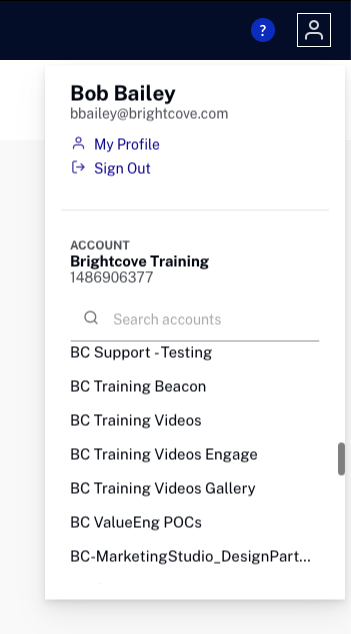
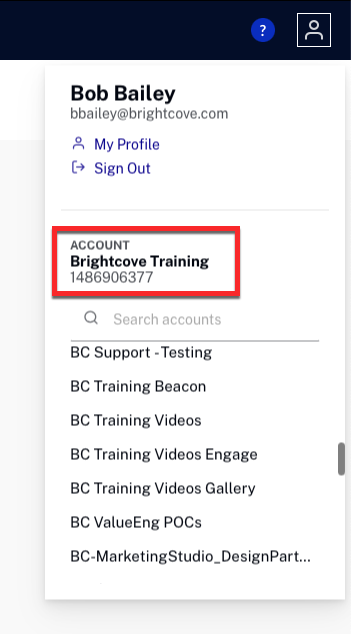
updates

Changed region(s): [[0.1425, 0.3297, 0.6838, 0.4795]]

diff --git a/_site/get-started/getting-started-video-cloud-studio-new-nav.html b/_site/get-started/getting-started-video-cloud-studio-new-nav.html
@@ -1279,16 +1279,16 @@ function doGTranslate(lang_pair) {if(lang_pair.value)lang_pair=lang_pair.value;i
 <article class="bcls-article">
   <h1>Getting Started with Video Cloud Studio - Updated Navigation</h1>
   <summary>This topic provides an overview of the upcoming Video Cloud Studio interface and modules. Video Cloud Studio allows you to manage your video publishing workflow across desktop, tablet and mobile devices.</summary>
-  <section class="bcls-section">
-      <script src="https://solutions.brightcove.com/jcao/AppMeasurement.js"></script><script src="https://solutions.brightcove.com/jcao/VisitorAPI.js"></script>
+  <section class="bcls-section"> 
+    <script src="https://solutions.brightcove.com/jcao/AppMeasurement.js"></script><script src="https://solutions.brightcove.com/jcao/VisitorAPI.js"></script>
     <div class="training-video-player-ipx" data-experience="5a73630f7afd7a00101bc1b5" data-video-ids="1724220548770009898">&nbsp;</div>
     <script src="https://players.brightcove.net/20318290001/experience_5a73630f7afd7a00101bc1b5/live.js"></script>
     <p>To access Video Cloud Studio, navigate to: <a href="https://studio.brightcove.com">https://studio.brightcove.com</a>. Sign in with your email address and password. The home page provides the ability to:</p>
     <ul>
       <li><a href="#notification">View system notifications</a></li>
-      <li><a href="#settings">Manage Video Cloud settings</a></li>
       <li><a href="#account">Select an account and view the user profile</a></li>
       <li><a href="#modules">Access Video Cloud modules</a></li>
+      <li><a href="#settings">Manage Video Cloud settings</a></li>
       <li><a href="#dashboard">View the Video Cloud dashboard</a></li>
     </ul>
     <figure class="bcls-figure"><img class="bcls-image--no-border" alt="" src="/assets/images/get-started/node14494-studio-home2.png" /></figure>
@@ -1298,6 +1298,41 @@ function doGTranslate(lang_pair) {if(lang_pair.value)lang_pair=lang_pair.value;i
     <h2 id="notification">Viewing system notifications</h2>
     <p>The Video Cloud Studio header will display a bell icon <img alt="" src="/assets/images/get-started/node14494-notification-icon.png" /> when there are system notifications available. Clicking the icon will display the list of system notifications.</p>
     <p>The Video Cloud Studio header will display a warning icon <img alt="" src="/assets/images/get-started/node14494-system-issue-icon.png" /> when there are system issues. Clicking the icon will open the Brightcove System Status page.</p>
+  </section>
+  <section class="bcls-section">
+    <h2 id="account">Selecting an account</h2>
+    <p>If you have access to multiple Video Cloud accounts, the Video Cloud account selector can be used to select the Video Cloud account you want to access. To switch accounts, click on the <strong>Profile</strong> icon in the top right corner of Video Cloud Studio. The current account appears above the account list.</p>
+    <figure class="bcls-figure"><img class="bcls-image--no-border" alt="" src="/assets/images/get-started/node14494-select-account2.png" /></figure>
+    <p>Click the <strong>My Profile</strong> link to update your user information and password. For more information, see <a href="/admin/managing-profile-information.html">Managing Profile Information</a>.</p>
+  </section>
+  <section class="bcls-section">
+    <h2 id="modules">Accessing modules</h2>
+    <p>The Video Cloud Studio primary navigation provides access to the Studio modules.</p>
+    <figure class="bcls-figure"><img class="bcls-image--no-border" alt="" src="/assets/images/get-started/node14494-nav-header2.png" /></figure>
+    <p>Note that the modules that you have access to are based upon your Video Cloud subscription and user profile.</p>
+    <ul>
+      <li><a href="/media/uploading-videos-using-upload-module.html">Upload</a> - Upload videos to your Video Cloud account</li>
+      <li><a href="/media/getting-started-media-module.html">Media</a> - Set video properties, organize videos using folders and publish videos</li>
+      <li><a href="https://gallery.support.brightcove.com/get-started/getting-started-brightcove-gallery.html">Gallery</a> - Create video portals for your video content</li>
+      <li><a href="https://live.support.brightcove.com/live-module/creating-and-managing-live-events-using-live-module.html">Live</a> - Create and stream live events</li>
+      <li><a href="/cloud-playout/cloud-playout-overview.html">Cloud Playout</a> - Create live linear channels for videos</li>
+      <li><a href="/social/getting-started-brightcove-social.html">Social</a> - Distribute videos to social media accounts</li>
+      <li><a href="/analytics/getting-started-analytics-module.html">Analytics</a> - View analytics on video and player performance</li>
+      <li><a href="/players/getting-started-players-module.html">Players</a> - Create and style players and generate publishing code for players</li>
+      <li><a href="/campaign/index.html">Campaign</a> - Connects video analytics from Video Cloud to marketing automation platforms</li>
+    </ul>
+    The <strong>Marketplace</strong> icon will open the Brightcove Marketplace in a new browser tab. The Brightcove Marketplace contains integrations and applications that extend the capabilities of the Brightcove platform.</section>
+  <section class="bcls-section">
+    <h2 id="dashboard">Viewing the dashboard</h2>
+    <p>The Video Cloud Studio home page displays the Video Cloud dashboard. The dashboard contains a series of "cards" which provide high level metrics on the videos in your account. The following cards are available:</p>
+    <ul>
+      <li><strong>Video views</strong> - Displays number of video views per day for the time period selected. Clicking the <strong>See Video View Details</strong> link will open the Performance Report where you can view video performance.</li>
+      <li><strong>Account summary</strong> - Displays total number of videos and players in the account and the number of recently created and updated videos. Clicking on a number will open the Media or Players module.</li>
+      <li><strong>Device type</strong> - Displays type of devices used to watch videos for the time period selected. Clicking the <strong>See Video Views by Device Type</strong> link will open the Performance Report where you can view video performance by device type.</li>
+      <li><strong>What's new?</strong> - Displays Video Cloud product updates. For a complete list of updates, see the <a href="/release-notes/video-cloud-studio-release-notes.html">Video Cloud Studio Release Notes</a>.</li>
+      <li><strong>Top trending videos</strong> - Displays videos with the most views for the time period selected. Clicking the card title link will open the Performance Report where you can view video performance.</li>
+      <li><strong>Viewing regions</strong> - Displays viewer locations for the time period selected. Clicking <strong>See Video Views by Country</strong> will open the Performance Report where you can view video views by country.</li>
+    </ul>
   </section>
   <section class="bcls-section">
     <h2 id="settings">Managing settings</h2>
@@ -1320,41 +1355,6 @@ function doGTranslate(lang_pair) {if(lang_pair.value)lang_pair=lang_pair.value;i
       <li><a href="/admin/viewing-billing-information.html">Billing</a> - View billing information for the account</li>
     </ul>
     <aside class="bcls-aside bcls-aside--information">Note: You must be an account administrator to have access to the Admin settings.</aside>
-  </section>
-  <section class="bcls-section">
-    <h2 id="account">Selecting an account</h2>
-    <p>If you have access to multiple Video Cloud accounts, the Video Cloud account selector can be used to select the Video Cloud account you want to access. To switch accounts, click on the <strong>Profile</strong> icon in the top right corner of Video Cloud Studio. The current account is indicated with a dot preceding the account name.</p>
-    <figure class="bcls-figure"><img class="bcls-image--no-border" alt="" src="/assets/images/get-started/node14494-select-account2.png" /></figure>
-    <p>Click the <strong>My Profile</strong> link to update your user information and password. For more information, see <a href="/admin/managing-profile-information.html">Managing Profile Information</a>.</p>
-  </section>
-  <section class="bcls-section">
-    <h2 id="modules">Accessing modules</h2>
-    <p>The Video Cloud Studio primary navigation provides access to the Studio modules.</p>
-    <figure class="bcls-figure"><img class="bcls-image--no-border" alt="" src="/assets/images/get-started/node14494-nav-header2.png" /></figure>
-    <p>Note that the modules that you have access to are based upon your Video Cloud subscription and user profile.</p>
-    <ul>
-      <li><a href="/media/uploading-videos-using-upload-module.html">Upload</a> - Upload videos to your Video Cloud account</li>
-      <li><a href="/media/getting-started-media-module.html">Media</a> - Set video properties, organize videos using folders and publish videos</li>
-      <li><a href="/analytics/getting-started-analytics-module.html">Analytics</a> - View analytics on video and player performance</li>
-      <li><a href="/players/getting-started-players-module.html">Players</a> - Create and style players and generate publishing code for players</li>
-      <li><a href="https://live.support.brightcove.com/live-module/creating-and-managing-live-events-using-live-module.html">Live</a> - Create and stream live events</li>
-      <li><a href="/cloud-playout/cloud-playout-overview.html">Cloud Playout</a> - Create live linear channels for videos</li>
-      <li><a href="https://gallery.support.brightcove.com/get-started/getting-started-brightcove-gallery.html">Gallery</a> - Create video portals for your video content</li>
-      <li><a href="/social/getting-started-brightcove-social.html">Social</a> - Distribute videos to social media accounts</li>
-      <li><a href="/campaign/index.html">Campaign</a> - Connects video analytics from Video Cloud to marketing automation platforms</li>
-    </ul>
-    The <strong>Marketplace</strong> link will open the Brightcove Marketplace in a new browser tab. The Brightcove Marketplace contains integrations and applications that extend the capabilities of the Brightcove platform.</section>
-  <section class="bcls-section">
-    <h2 id="dashboard">Viewing the dashboard</h2>
-    <p>The Video Cloud Studio home page displays the Video Cloud dashboard. The dashboard contains a series of "cards" which provide high level metrics on the videos in your account. The following cards are available:</p>
-    <ul>
-      <li><strong>Video views</strong> - Displays number of video views per day for the time period selected. Clicking the <strong>See Video View Details</strong> link will open the Performance Report where you can view video performance.</li>
-      <li><strong>Account summary</strong> - Displays total number of videos and players in the account and the number of recently created and updated videos. Clicking on a number will open the Media or Players module.</li>
-      <li><strong>Device type</strong> - Displays type of devices used to watch videos for the time period selected. Clicking the <strong>See Video Views by Device Type</strong> link will open the Performance Report where you can view video performance by device type.</li>
-      <li><strong>What's new?</strong> - Displays Video Cloud product updates. For a complete list of updates, see the <a href="/release-notes/video-cloud-studio-release-notes.html">Video Cloud Studio Release Notes</a>.</li>
-      <li><strong>Top trending videos</strong> - Displays videos with the most views for the time period selected. Clicking the card title link will open the Performance Report where you can view video performance.</li>
-      <li><strong>Viewing regions</strong> - Displays viewer locations for the time period selected. Clicking <strong>See Video Views by Country</strong> will open the Performance Report where you can view video views by country.</li>
-    </ul>
   </section>
   <section class="bcls-section">
     <h2 id="localization">Localization</h2>

diff --git a/get-started/getting-started-video-cloud-studio-new-nav.html b/get-started/getting-started-video-cloud-studio-new-nav.html
@@ -7,16 +7,16 @@ layout: staging
 <article class="bcls-article">
   <h1>{{ page.title }}</h1>
   <summary>{{ page.description }}</summary>
-  <section class="bcls-section">
-      <script src="https://solutions.brightcove.com/jcao/AppMeasurement.js"></script><script src="https://solutions.brightcove.com/jcao/VisitorAPI.js"></script>
+  <section class="bcls-section"> 
+    <script src="https://solutions.brightcove.com/jcao/AppMeasurement.js"></script><script src="https://solutions.brightcove.com/jcao/VisitorAPI.js"></script>
     <div class="training-video-player-ipx" data-experience="5a73630f7afd7a00101bc1b5" data-video-ids="1724220548770009898">&nbsp;</div>
     <script src="https://players.brightcove.net/20318290001/experience_5a73630f7afd7a00101bc1b5/live.js"></script>
     <p>To access Video Cloud Studio, navigate to: <a href="https://studio.brightcove.com">https://studio.brightcove.com</a>. Sign in with your email address and password. The home page provides the ability to:</p>
     <ul>
       <li><a href="#notification">View system notifications</a></li>
-      <li><a href="#settings">Manage Video Cloud settings</a></li>
       <li><a href="#account">Select an account and view the user profile</a></li>
       <li><a href="#modules">Access Video Cloud modules</a></li>
+      <li><a href="#settings">Manage Video Cloud settings</a></li>
       <li><a href="#dashboard">View the Video Cloud dashboard</a></li>
     </ul>
     <figure class="bcls-figure"><img class="bcls-image--no-border" alt="" src="/assets/images/get-started/node14494-studio-home2.png" /></figure>
@@ -26,6 +26,41 @@ layout: staging
     <h2 id="notification">Viewing system notifications</h2>
     <p>The Video Cloud Studio header will display a bell icon <img alt="" src="/assets/images/get-started/node14494-notification-icon.png" /> when there are system notifications available. Clicking the icon will display the list of system notifications.</p>
     <p>The Video Cloud Studio header will display a warning icon <img alt="" src="/assets/images/get-started/node14494-system-issue-icon.png" /> when there are system issues. Clicking the icon will open the Brightcove System Status page.</p>
+  </section>
+  <section class="bcls-section">
+    <h2 id="account">Selecting an account</h2>
+    <p>If you have access to multiple Video Cloud accounts, the Video Cloud account selector can be used to select the Video Cloud account you want to access. To switch accounts, click on the <strong>Profile</strong> icon in the top right corner of Video Cloud Studio. The current account appears above the account list.</p>
+    <figure class="bcls-figure"><img class="bcls-image--no-border" alt="" src="/assets/images/get-started/node14494-select-account2.png" /></figure>
+    <p>Click the <strong>My Profile</strong> link to update your user information and password. For more information, see <a href="/admin/managing-profile-information.html">Managing Profile Information</a>.</p>
+  </section>
+  <section class="bcls-section">
+    <h2 id="modules">Accessing modules</h2>
+    <p>The Video Cloud Studio primary navigation provides access to the Studio modules.</p>
+    <figure class="bcls-figure"><img class="bcls-image--no-border" alt="" src="/assets/images/get-started/node14494-nav-header2.png" /></figure>
+    <p>Note that the modules that you have access to are based upon your Video Cloud subscription and user profile.</p>
+    <ul>
+      <li><a href="/media/uploading-videos-using-upload-module.html">Upload</a> - Upload videos to your Video Cloud account</li>
+      <li><a href="/media/getting-started-media-module.html">Media</a> - Set video properties, organize videos using folders and publish videos</li>
+      <li><a href="https://gallery.support.brightcove.com/get-started/getting-started-brightcove-gallery.html">Gallery</a> - Create video portals for your video content</li>
+      <li><a href="https://live.support.brightcove.com/live-module/creating-and-managing-live-events-using-live-module.html">Live</a> - Create and stream live events</li>
+      <li><a href="/cloud-playout/cloud-playout-overview.html">Cloud Playout</a> - Create live linear channels for videos</li>
+      <li><a href="/social/getting-started-brightcove-social.html">Social</a> - Distribute videos to social media accounts</li>
+      <li><a href="/analytics/getting-started-analytics-module.html">Analytics</a> - View analytics on video and player performance</li>
+      <li><a href="/players/getting-started-players-module.html">Players</a> - Create and style players and generate publishing code for players</li>
+      <li><a href="/campaign/index.html">Campaign</a> - Connects video analytics from Video Cloud to marketing automation platforms</li>
+    </ul>
+    The <strong>Marketplace</strong> icon will open the Brightcove Marketplace in a new browser tab. The Brightcove Marketplace contains integrations and applications that extend the capabilities of the Brightcove platform.</section>
+  <section class="bcls-section">
+    <h2 id="dashboard">Viewing the dashboard</h2>
+    <p>The Video Cloud Studio home page displays the Video Cloud dashboard. The dashboard contains a series of "cards" which provide high level metrics on the videos in your account. The following cards are available:</p>
+    <ul>
+      <li><strong>Video views</strong> - Displays number of video views per day for the time period selected. Clicking the <strong>See Video View Details</strong> link will open the Performance Report where you can view video performance.</li>
+      <li><strong>Account summary</strong> - Displays total number of videos and players in the account and the number of recently created and updated videos. Clicking on a number will open the Media or Players module.</li>
+      <li><strong>Device type</strong> - Displays type of devices used to watch videos for the time period selected. Clicking the <strong>See Video Views by Device Type</strong> link will open the Performance Report where you can view video performance by device type.</li>
+      <li><strong>What's new?</strong> - Displays Video Cloud product updates. For a complete list of updates, see the <a href="/release-notes/video-cloud-studio-release-notes.html">Video Cloud Studio Release Notes</a>.</li>
+      <li><strong>Top trending videos</strong> - Displays videos with the most views for the time period selected. Clicking the card title link will open the Performance Report where you can view video performance.</li>
+      <li><strong>Viewing regions</strong> - Displays viewer locations for the time period selected. Clicking <strong>See Video Views by Country</strong> will open the Performance Report where you can view video views by country.</li>
+    </ul>
   </section>
   <section class="bcls-section">
     <h2 id="settings">Managing settings</h2>
@@ -48,41 +83,6 @@ layout: staging
       <li><a href="/admin/viewing-billing-information.html">Billing</a> - View billing information for the account</li>
     </ul>
     <aside class="bcls-aside bcls-aside--information">Note: You must be an account administrator to have access to the Admin settings.</aside>
-  </section>
-  <section class="bcls-section">
-    <h2 id="account">Selecting an account</h2>
-    <p>If you have access to multiple Video Cloud accounts, the Video Cloud account selector can be used to select the Video Cloud account you want to access. To switch accounts, click on the <strong>Profile</strong> icon in the top right corner of Video Cloud Studio. The current account is indicated with a dot preceding the account name.</p>
-    <figure class="bcls-figure"><img class="bcls-image--no-border" alt="" src="/assets/images/get-started/node14494-select-account2.png" /></figure>
-    <p>Click the <strong>My Profile</strong> link to update your user information and password. For more information, see <a href="/admin/managing-profile-information.html">Managing Profile Information</a>.</p>
-  </section>
-  <section class="bcls-section">
-    <h2 id="modules">Accessing modules</h2>
-    <p>The Video Cloud Studio primary navigation provides access to the Studio modules.</p>
-    <figure class="bcls-figure"><img class="bcls-image--no-border" alt="" src="/assets/images/get-started/node14494-nav-header2.png" /></figure>
-    <p>Note that the modules that you have access to are based upon your Video Cloud subscription and user profile.</p>
-    <ul>
-      <li><a href="/media/uploading-videos-using-upload-module.html">Upload</a> - Upload videos to your Video Cloud account</li>
-      <li><a href="/media/getting-started-media-module.html">Media</a> - Set video properties, organize videos using folders and publish videos</li>
-      <li><a href="/analytics/getting-started-analytics-module.html">Analytics</a> - View analytics on video and player performance</li>
-      <li><a href="/players/getting-started-players-module.html">Players</a> - Create and style players and generate publishing code for players</li>
-      <li><a href="https://live.support.brightcove.com/live-module/creating-and-managing-live-events-using-live-module.html">Live</a> - Create and stream live events</li>
-      <li><a href="/cloud-playout/cloud-playout-overview.html">Cloud Playout</a> - Create live linear channels for videos</li>
-      <li><a href="https://gallery.support.brightcove.com/get-started/getting-started-brightcove-gallery.html">Gallery</a> - Create video portals for your video content</li>
-      <li><a href="/social/getting-started-brightcove-social.html">Social</a> - Distribute videos to social media accounts</li>
-      <li><a href="/campaign/index.html">Campaign</a> - Connects video analytics from Video Cloud to marketing automation platforms</li>
-    </ul>
-    The <strong>Marketplace</strong> link will open the Brightcove Marketplace in a new browser tab. The Brightcove Marketplace contains integrations and applications that extend the capabilities of the Brightcove platform.</section>
-  <section class="bcls-section">
-    <h2 id="dashboard">Viewing the dashboard</h2>
-    <p>The Video Cloud Studio home page displays the Video Cloud dashboard. The dashboard contains a series of "cards" which provide high level metrics on the videos in your account. The following cards are available:</p>
-    <ul>
-      <li><strong>Video views</strong> - Displays number of video views per day for the time period selected. Clicking the <strong>See Video View Details</strong> link will open the Performance Report where you can view video performance.</li>
-      <li><strong>Account summary</strong> - Displays total number of videos and players in the account and the number of recently created and updated videos. Clicking on a number will open the Media or Players module.</li>
-      <li><strong>Device type</strong> - Displays type of devices used to watch videos for the time period selected. Clicking the <strong>See Video Views by Device Type</strong> link will open the Performance Report where you can view video performance by device type.</li>
-      <li><strong>What's new?</strong> - Displays Video Cloud product updates. For a complete list of updates, see the <a href="/release-notes/video-cloud-studio-release-notes.html">Video Cloud Studio Release Notes</a>.</li>
-      <li><strong>Top trending videos</strong> - Displays videos with the most views for the time period selected. Clicking the card title link will open the Performance Report where you can view video performance.</li>
-      <li><strong>Viewing regions</strong> - Displays viewer locations for the time period selected. Clicking <strong>See Video Views by Country</strong> will open the Performance Report where you can view video views by country.</li>
-    </ul>
   </section>
   <section class="bcls-section">
     <h2 id="localization">Localization</h2>
